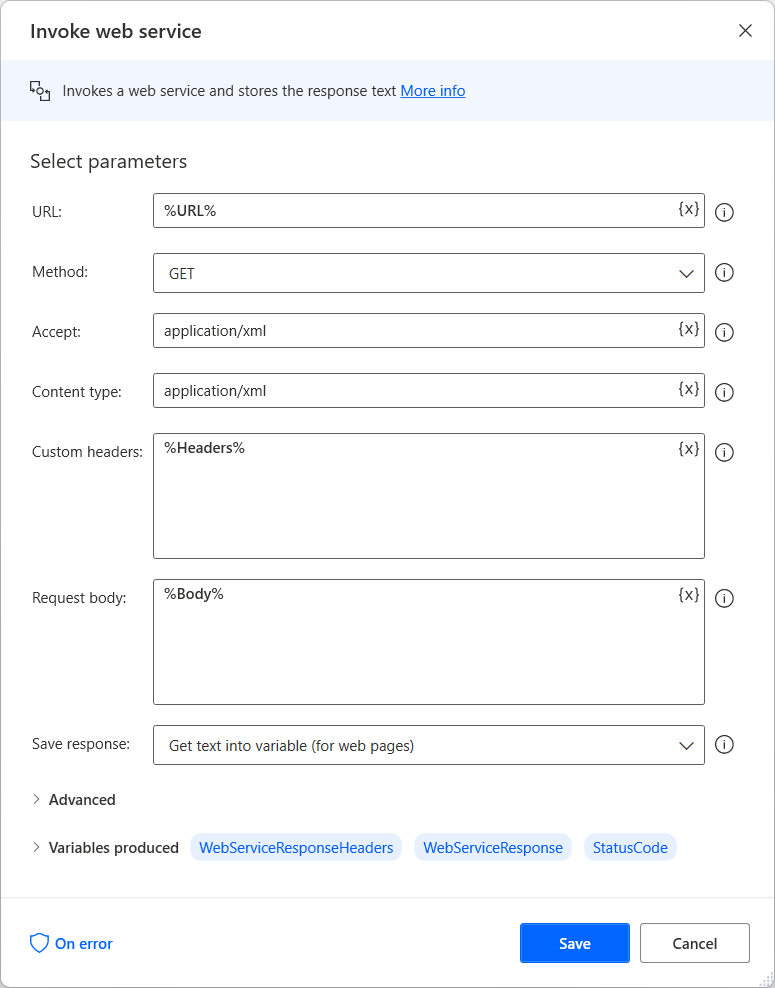
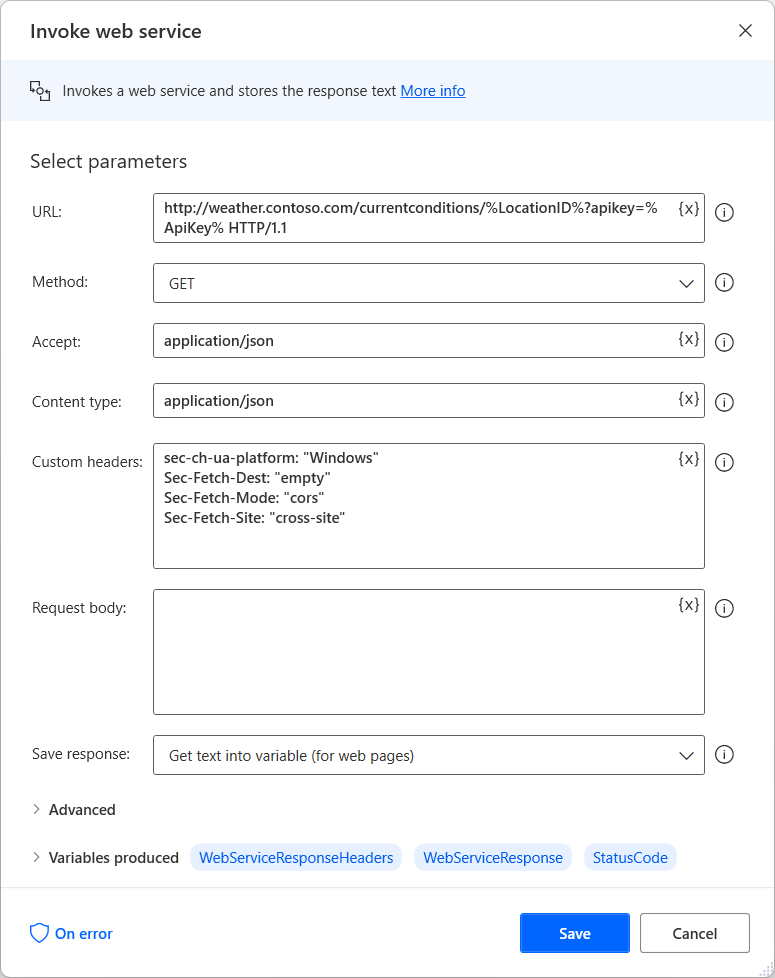
Updated content in Automate web flows

diff --git a/articles/desktop-flows/automation-web.md b/articles/desktop-flows/automation-web.md
@@ -70,6 +70,7 @@ To provide input to a web page, select the appropriate **Web form filling** acti
 
 To extract a piece of data from a web page, use the **Get details of web page** or the **Get details of element on web page** action, depending on whether the data in question concerns the entire web page or an element inside it.
 
+
 ![Screenshot of the Get details of web page action.](.\media\web-automation\get-details-of-web-page-action.png)
 
 ![Screenshot of the Get details of element on web page action.](.\media\web-automation\get-details-of-element-on-web-page-action.png)
@@ -100,6 +101,9 @@ Both the **GET** and **POST** methods can be used with this action. The files ca
 ### Accessing web APIs
 
 Use the **Invoke web service** action to access web APIs. Various methods are compatible with this action, which is fully customizable in order to accommodate virtually any API.
+
+> [!NOTE]
+> Before using the **Invoke web service** action, refer to the documentation page of the web service you want to use. The example presented in the following screenshot can't be applied in all scenarios, as each web service requires a different configuration and syntax. 
 
 ![Screenshot of the Invoke web service action.](./media/interacting-web-services/invoke-web-service-action.png)
 
